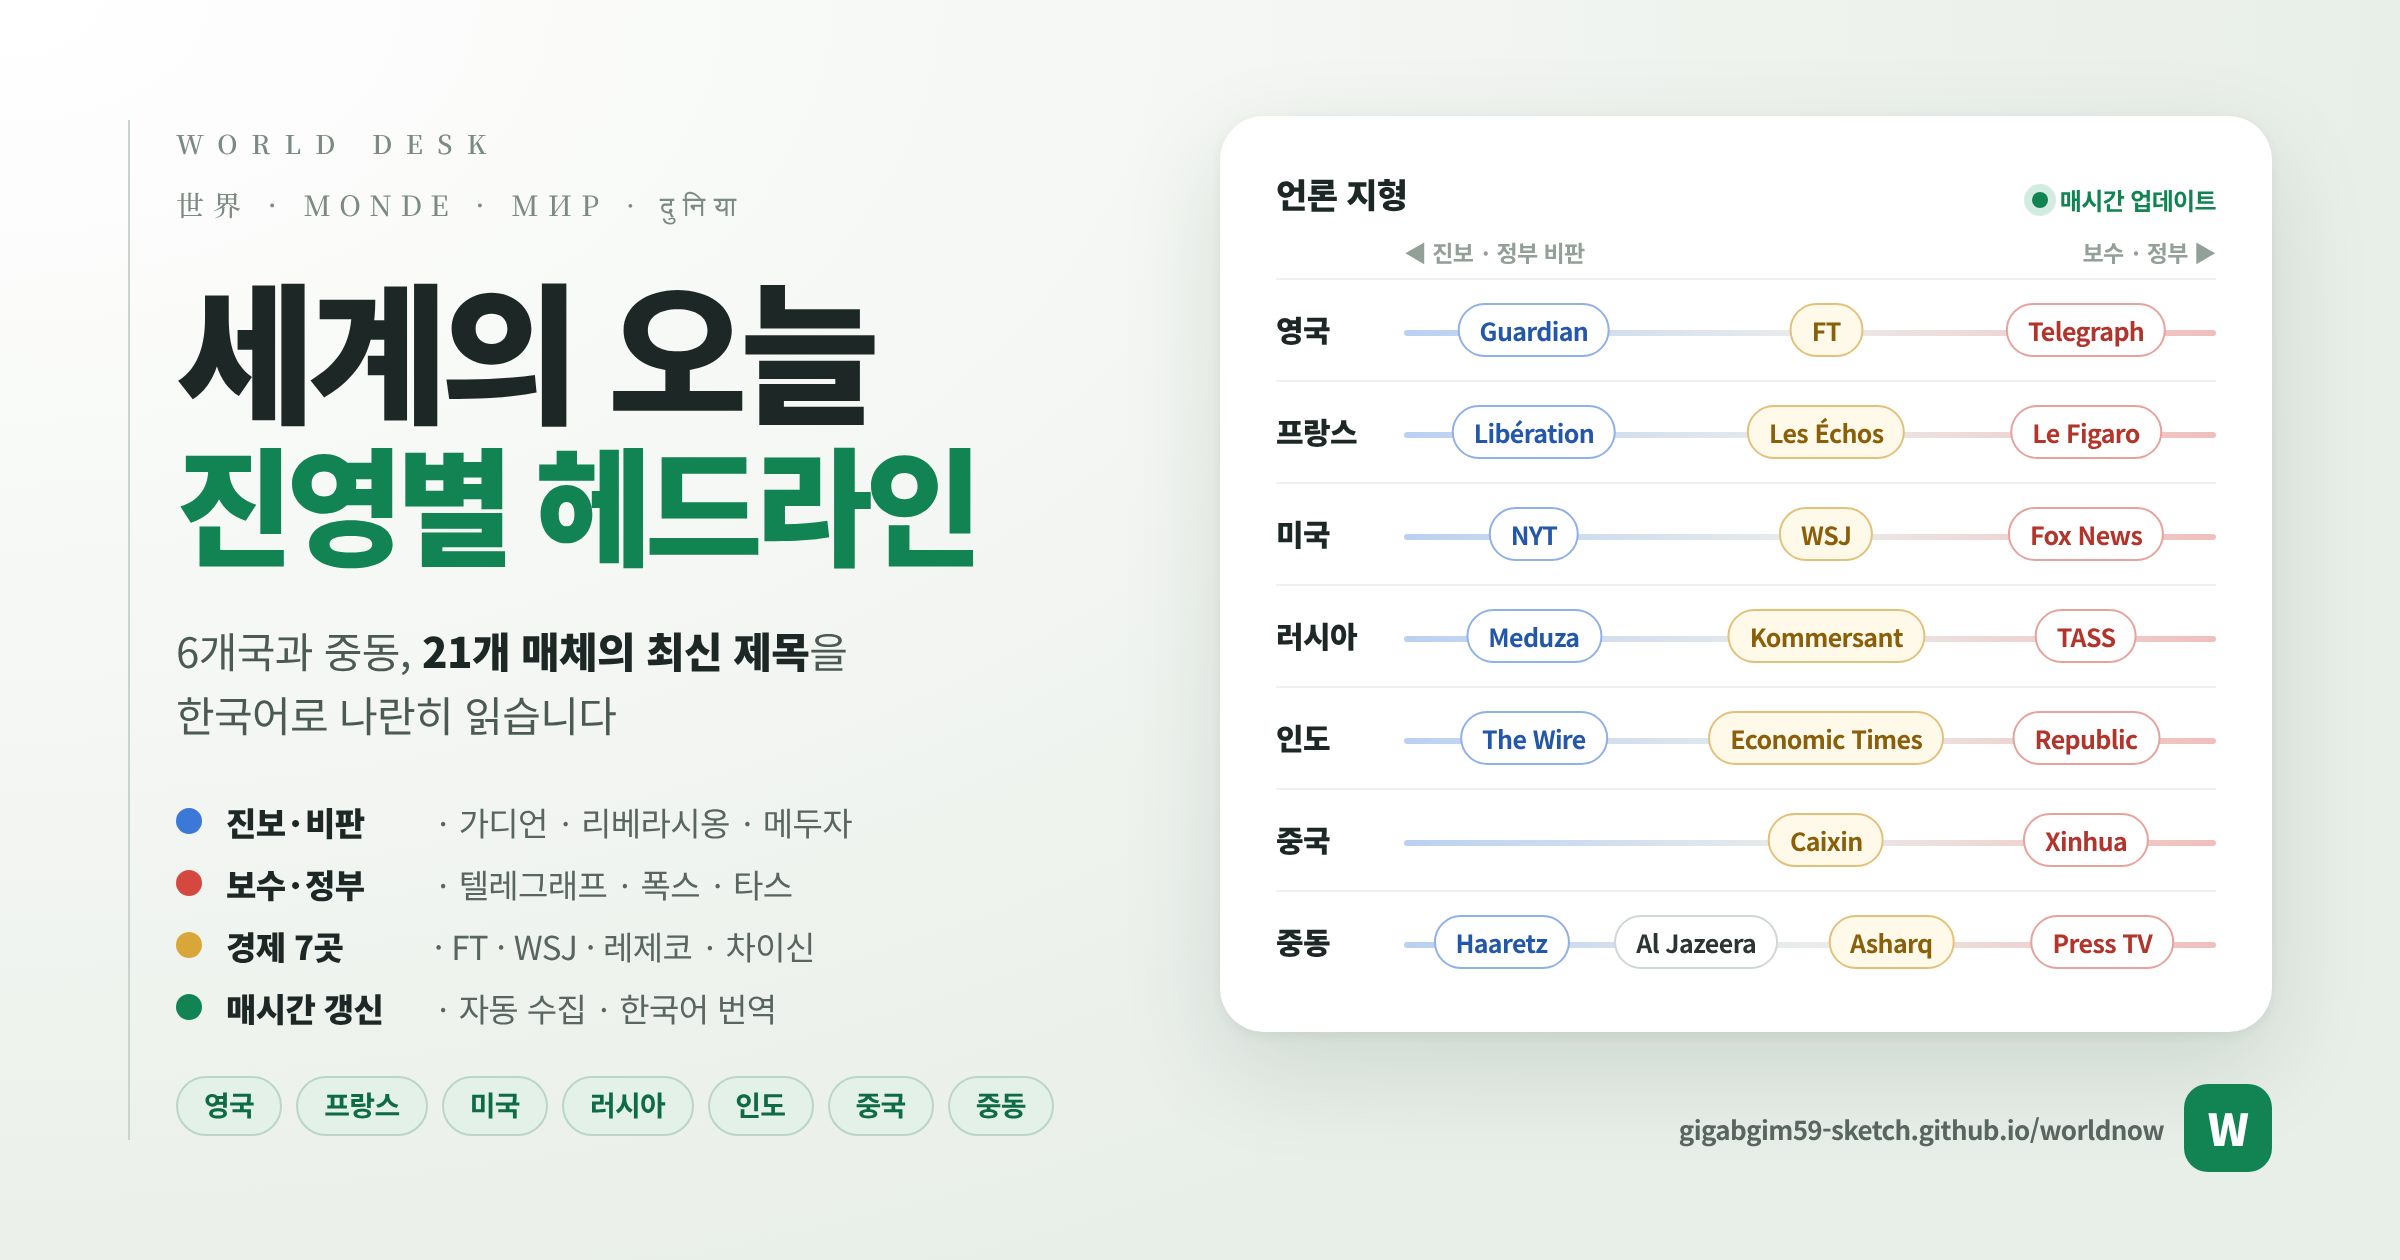
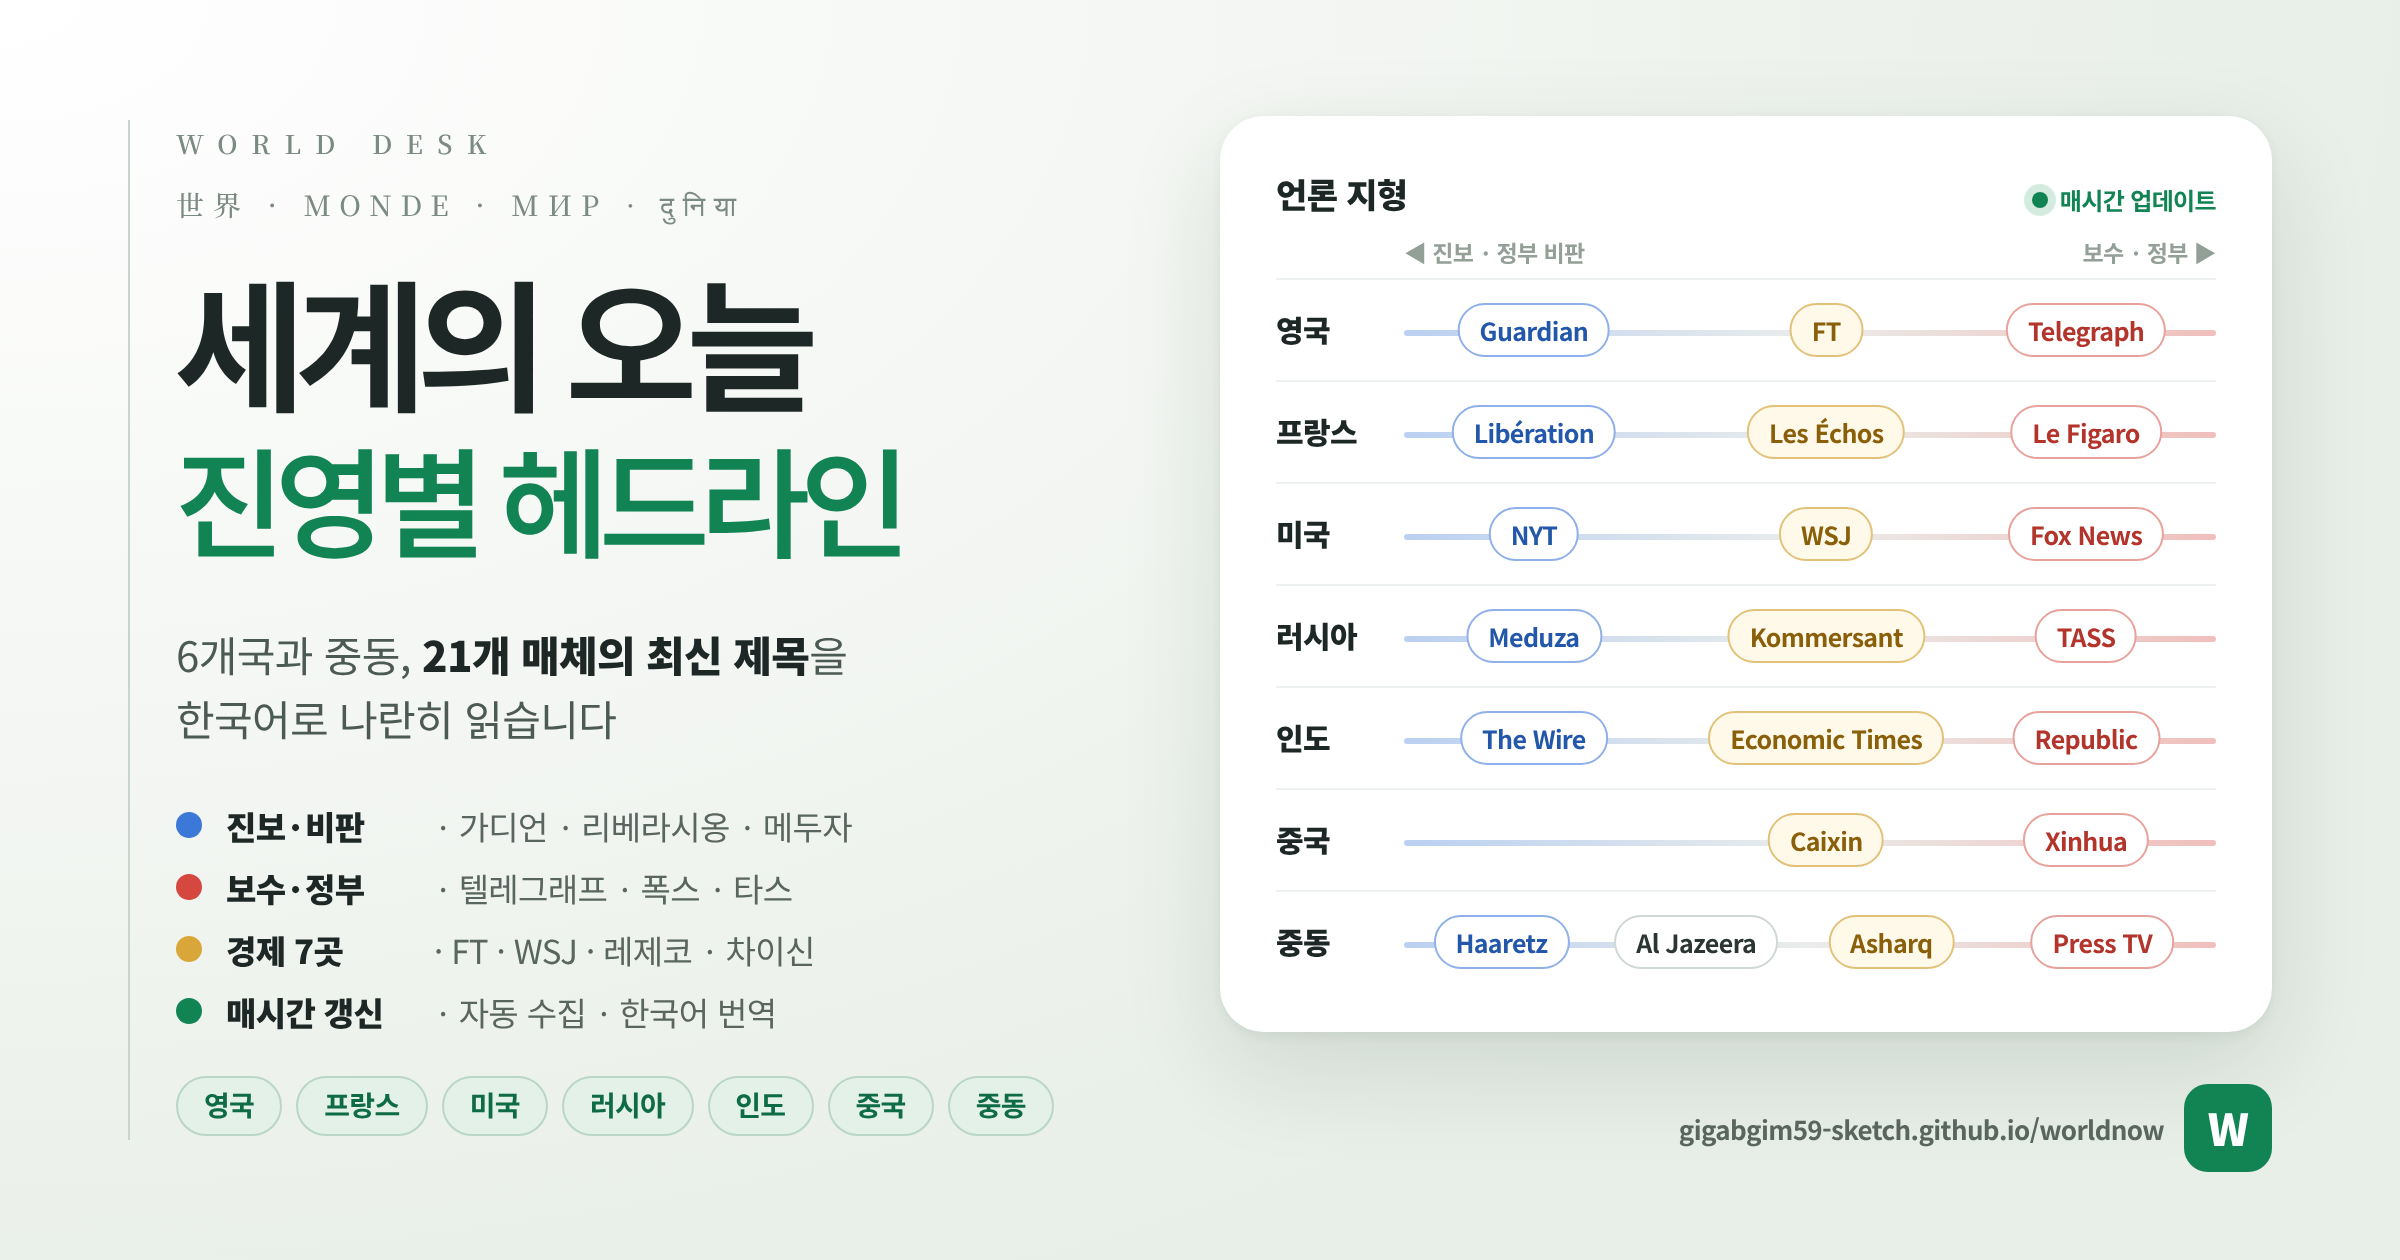
썸네일 제목 글꼴을 Pretendard로 교체
Claude-Session: https://claude.ai/code/session_018vdpFpjhRGtbERHytNSxw9

diff --git a/public/index.html b/public/index.html
@@ -1,5 +1,5 @@
 <!doctype html>
-<html lang="ko"><head><meta charset="utf-8"><meta name="viewport" content="width=device-width,initial-scale=1"><meta name="theme-color" content="#148653"><meta name="description" content="6개국과 중동, 21개 매체의 헤드라인으로 보는 정치·사회·경제."><meta property="og:type" content="website"><meta property="og:site_name" content="세계의 오늘 · World Desk"><meta property="og:title" content="세계의 오늘 · 진영별 헤드라인"><meta property="og:description" content="6개국과 중동, 21개 매체의 최신 제목을 한국어로 나란히 읽는 뉴스판. 매시간 갱신."><meta property="og:image" content="https://gigabgim59-sketch.github.io/worldnow/worldnow-thumb.png"><meta property="og:image:width" content="2400"><meta property="og:image:height" content="1260"><meta property="og:image:alt" content="5개국·중국·중동 21개 매체를 진보·비판에서 보수·정부까지 배치한 언론 지형"><meta property="og:url" content="https://gigabgim59-sketch.github.io/worldnow/"><meta property="og:locale" content="ko_KR"><meta name="twitter:card" content="summary_large_image"><meta name="twitter:title" content="세계의 오늘 · 진영별 헤드라인"><meta name="twitter:description" content="6개국과 중동, 21개 매체의 최신 제목을 한국어로 나란히 읽는 뉴스판. 매시간 갱신."><meta name="twitter:image" content="https://gigabgim59-sketch.github.io/worldnow/worldnow-thumb.png"><title>세계의 오늘 · World Desk</title>
+<html lang="ko"><head><meta charset="utf-8"><meta name="viewport" content="width=device-width,initial-scale=1"><meta name="theme-color" content="#148653"><meta name="description" content="6개국과 중동, 21개 매체의 헤드라인으로 보는 정치·사회·경제."><meta property="og:type" content="website"><meta property="og:site_name" content="세계의 오늘 · World Desk"><meta property="og:title" content="세계의 오늘 · 진영별 헤드라인"><meta property="og:description" content="6개국과 중동, 21개 매체의 최신 제목을 한국어로 나란히 읽는 뉴스판. 매시간 갱신."><meta property="og:image" content="https://gigabgim59-sketch.github.io/worldnow/worldnow-thumb.png?v=2"><meta property="og:image:width" content="2400"><meta property="og:image:height" content="1260"><meta property="og:image:alt" content="5개국·중국·중동 21개 매체를 진보·비판에서 보수·정부까지 배치한 언론 지형"><meta property="og:url" content="https://gigabgim59-sketch.github.io/worldnow/"><meta property="og:locale" content="ko_KR"><meta name="twitter:card" content="summary_large_image"><meta name="twitter:title" content="세계의 오늘 · 진영별 헤드라인"><meta name="twitter:description" content="6개국과 중동, 21개 매체의 최신 제목을 한국어로 나란히 읽는 뉴스판. 매시간 갱신."><meta name="twitter:image" content="https://gigabgim59-sketch.github.io/worldnow/worldnow-thumb.png?v=2"><title>세계의 오늘 · World Desk</title>
 <style>
 [hidden]{display:none!important}:root{--green:#128353;--ink:#202a28;--muted:#738079;--line:#e2e8e3;--bg:#f4f6f3;--card:#fff}*{box-sizing:border-box}body{margin:0;background:var(--bg);color:var(--ink);font-family:-apple-system,BlinkMacSystemFont,"Segoe UI","Noto Sans KR",sans-serif;letter-spacing:-.025em}button,input,select{font:inherit}button{cursor:pointer}a{color:inherit;text-decoration:none}a:hover{text-decoration:underline;text-underline-offset:4px}button:focus-visible,a:focus-visible,input:focus-visible,select:focus-visible{outline:3px solid #57ac84;outline-offset:3px}.shell{max-width:1320px;margin:auto;padding:0 32px}header{background:white;border-bottom:1px solid var(--line)}.mast{display:flex;justify-content:space-between;align-items:center;padding-top:26px;padding-bottom:24px;gap:16px}.brandline{display:flex;align-items:center;gap:12px}.mark{width:42px;height:42px;border-radius:12px;background:var(--green);color:white;display:grid;place-items:center;font-size:24px;font-weight:850}.brand{font-size:12px;letter-spacing:.18em;font-weight:750;color:var(--green)}h1{font-size:29px;margin:3px 0 0;letter-spacing:-.055em}.headright{display:flex;gap:18px;align-items:center;color:var(--muted);font-size:12px}.button{border:1px solid var(--line);border-radius:8px;background:white;padding:9px 13px;color:#3d5146;font-size:13px;font-weight:600}.button:hover{background:#f2f7f2}.nav{display:flex;gap:6px;overflow:auto;scrollbar-width:none}.nav button{flex-shrink:0;border:0;background:transparent;color:#65726b;padding:16px 18px 14px;font-size:15px;font-weight:650;border-bottom:3px solid transparent}.nav button.active{color:var(--green);border-bottom-color:var(--green)}.intro{display:flex;align-items:end;justify-content:space-between;gap:15px;padding-top:30px;margin-bottom:20px}.eyebrow{font-size:11px;font-weight:750;color:var(--green);letter-spacing:.12em;margin:0 0 7px}h2{font-size:23px;margin:0 0 7px;font-weight:750}.subtitle{color:var(--muted);font-size:13px;margin:0;line-height:1.7}.live{width:6px;height:6px;background:#148653;border-radius:50%;display:inline-block;margin-right:6px}.status{font-size:12px;color:var(--muted);line-height:1.6}.tools{display:flex;gap:12px;justify-content:space-between;align-items:center;margin:22px 0 20px;flex-wrap:wrap}.seg{display:flex;padding:4px;background:#e8ede8;border-radius:9px;gap:3px}.seg button{border:0;background:transparent;border-radius:6px;padding:8px 15px;font-size:13px;color:#627067}.seg button.active{background:white;color:var(--ink);box-shadow:0 1px 4px #0000000b;font-weight:700}.filters{display:flex;gap:12px;align-items:center;flex-wrap:wrap}.search{background:white;border:1px solid var(--line);padding:9px 12px;border-radius:8px;width:205px;font-size:13px}.filters label{font-size:12px;color:#596b60;display:flex;gap:5px;align-items:center}select{border:1px solid var(--line);background:white;padding:8px;border-radius:7px;color:#516458;font-size:12px}.context{display:flex;gap:8px;align-items:center;padding:12px 16px;border:1px solid #dce7dc;border-radius:9px;background:#eef4ed;font-size:12px;color:#526b58;line-height:1.7;margin-bottom:20px}.context strong{color:#2b6040}.context button{border:0;background:none;color:var(--green);font-size:12px;font-weight:700;white-space:nowrap;margin-left:auto}.grid{display:grid;grid-template-columns:repeat(3,minmax(0,1fr));gap:20px;align-items:start}.card{background:white;border:1px solid var(--line);border-radius:13px;overflow:hidden;box-shadow:0 3px 12px #203a2403}.cardhead{display:flex;justify-content:space-between;gap:10px;align-items:center;padding:20px 20px 15px}.countryname{display:flex;align-items:center;gap:11px;font-size:18px;font-weight:750}.code{font-size:11px;font-weight:800;color:var(--green);background:#eaf3eb;border:1px solid #dbe8dc;border-radius:8px;display:grid;place-items:center;width:35px;height:35px;letter-spacing:.03em}.arrow{border:0;background:none;color:#78897e;font-size:19px;padding:5px}.small{font-size:11px;color:#829086}.topiclist{padding:0 20px 12px;display:flex;gap:6px;flex-wrap:wrap;min-height:27px}.topic{border:1px solid #e3e9e2;background:#f7f9f5;color:#52714f;border-radius:5px;padding:4px 7px;font-size:11px}.topic.selected{background:var(--green);color:white;border-color:var(--green)}.stories{padding:0 20px}.story{padding:15px 0;border-top:1px solid #edf0eb}.storymeta{display:flex;justify-content:space-between;gap:8px;font-size:10px;line-height:1.6;color:#829086;margin-bottom:6px}.outlet{font-weight:650;color:#647768}.headline{font-size:15px;line-height:1.6;font-weight:600;word-break:keep-all;overflow-wrap:anywhere;display:block}.translationlabel{font-size:10px;color:#8b988e;font-weight:400;margin-top:5px;line-height:1.6}.original{font-size:12px;line-height:1.6;color:#6a776e;margin-top:8px;word-break:normal}.cardfoot{padding:12px 20px;background:#fafbf9;border-top:1px solid #edf0eb;color:#829086;font-size:10px}.mediahead{display:flex;gap:10px;align-items:center;min-width:0}.mediaicon{width:36px;height:36px;border-radius:8px;display:grid;place-items:center;color:white;font-family:Georgia,serif;font-size:21px;font-weight:bold;flex-shrink:0}.medianame{font-family:Georgia,-apple-system,serif;font-size:17px;font-weight:bold;line-height:1.3}.medialabel{font-family:-apple-system,sans-serif;font-size:10px;color:#839085;margin-top:4px;font-weight:400}.sectionline{display:flex;align-items:center;justify-content:space-between;margin:32px 0 17px;gap:10px}.sectionline h3{margin:0;font-size:18px}.empty{padding:30px 20px;color:#7d8b80;font-size:13px;line-height:1.9}.globalempty{grid-column:1/-1;background:white;border:1px solid var(--line);border-radius:12px;padding:40px;text-align:center;color:#718475}.skeleton{height:340px;background:linear-gradient(100deg,#fff 30%,#f0f3ee 50%,#fff 70%);background-size:300% 100%;animation:shine 2s infinite;border:1px solid var(--line);border-radius:13px}@keyframes shine{to{background-position:-150% 0}}.transnotice{font-size:11px;color:#8c6d36;margin:12px 0;line-height:1.7;min-height:0}.footer{margin:35px 0 28px;border-top:1px solid var(--line);padding-top:20px;display:flex;justify-content:space-between;gap:20px;color:#819083;font-size:11px;line-height:1.9}.footer strong{color:#5b7160;font-size:12px}.footer button{background:none;border:0;color:#5f7a65;font-size:12px;text-decoration:underline;white-space:nowrap;align-self:start}dialog{border:1px solid var(--line);border-radius:15px;padding:28px;max-width:650px;width:calc(100% - 32px);color:var(--ink)}dialog::backdrop{background:#172d2480}dialog h2{font-size:20px}dialog p,dialog li{font-size:13px;line-height:1.9;color:#627066}dialog table{width:100%;border-collapse:collapse;font-size:12px}dialog td{padding:9px;border-top:1px solid var(--line);vertical-align:top}dialog .close{float:right}#activeTopic{margin:0 0 16px;font-size:12px;color:var(--green)}#activeTopic button{margin-left:10px;border:0;background:none;color:var(--green);text-decoration:underline}.loadingline{color:var(--green)}
 @media(min-width:1100px){.grid .card:last-child:nth-child(3n+1){max-width:100%}}@media(max-width:1000px){.grid{grid-template-columns:repeat(2,minmax(0,1fr))}.shell{padding:0 24px}.headright time{display:none}}@media(max-width:640px){.shell{padding:0 17px}.mast{padding-top:20px;padding-bottom:17px}h1{font-size:25px}.brand{font-size:10px}.mark{width:37px;height:37px;font-size:21px}.headright{gap:7px}.headright .button{font-size:11px;padding:8px}.nav{margin:0 -17px;padding:0 9px}.nav button{padding:14px 13px 12px;font-size:14px}.intro{padding-top:24px;display:block}.intro .status{margin-top:12px}.grid{grid-template-columns:1fr;gap:15px}.tools{gap:12px;margin-top:17px}.filters{width:100%;gap:10px}.search{flex:1;min-width:100px;width:130px}.context{padding:11px 12px;align-items:start}.context button{margin-top:2px}h2{font-size:21px}.cardhead{padding:18px 18px 13px}.stories{padding:0 18px}.headline{font-size:16px}.story{padding:15px 0}.topiclist{padding-left:18px}.footer{display:block}.footer button{margin-top:12px;padding:0}.sectionline{margin-top:25px}}

diff --git a/design/thumb.html b/design/thumb.html
@@ -1,6 +1,7 @@
 <!DOCTYPE html>
 <html lang="ko"><head><meta charset="utf-8">
-<style>
+<style>@font-face{font-family:"PT";src:url(node_modules/pretendard/dist/public/static/Pretendard-Bold.otf);font-weight:700}@font-face{font-family:"PT";src:url(node_modules/pretendard/dist/public/static/Pretendard-SemiBold.otf);font-weight:600}
+
 *{box-sizing:border-box;margin:0;padding:0}
 body{width:1200px;height:630px;overflow:hidden;font-family:"Noto Sans CJK KR","Noto Sans KR",sans-serif;color:#1d2826;letter-spacing:-.02em;
  background:radial-gradient(1200px 700px at 0% 0%,#ffffff 0%,#f3f6f2 55%,#e8eee8 100%)}
@@ -9,8 +10,8 @@ body{width:1200px;height:630px;overflow:hidden;font-family:"Noto Sans CJK KR","N
 .left::before{content:"";position:absolute;left:64px;top:60px;bottom:60px;width:1px;background:#c9d4cc}
 .kicker{font:600 13px "Noto Serif CJK KR",serif;letter-spacing:.55em;color:#7b8a82}
 .langs{margin-top:12px;font:500 14px "Noto Serif CJK KR",serif;letter-spacing:.32em;color:#7b8a82}
-h1{margin-top:22px;font-weight:900;font-size:76px;line-height:1.02;letter-spacing:-.05em}
-h1 em{font-style:normal;color:#128353;display:block;font-size:64px;margin-top:6px}
+h1{margin-top:22px;font-family:"PT";font-weight:700;font-size:74px;line-height:1.08;letter-spacing:-.045em}
+h1 em{font-style:normal;color:#128353;display:block;font-size:62px;margin-top:4px;font-weight:600}
 .sub{margin-top:26px;font-size:21px;line-height:1.55;color:#4c5a54;font-weight:400}
 .sub b{color:#1d2826;font-weight:800}
 ul{list-style:none;margin-top:24px}
